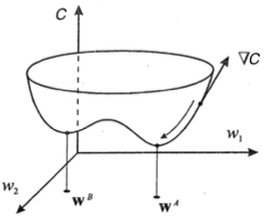
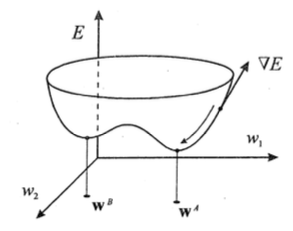
fix Error function

Changed region(s): [[0.0, 0.0276, 0.9925, 0.9954]]

diff --git a/chapters/2 State-of-the-art.tex b/chapters/2 State-of-the-art.tex
@@ -120,31 +120,37 @@ Lo scambio di dati tra i vari neuroni consente alla rete neurale di poter genera
 anche con dati mai visti nel training set. Questo processo prende il nome di 
 “\emph{Apprendimento}”. L’apprendimento di un modello di rete è tipicamente effettuato 
 a partire da un insieme di dati di addestramento chiamato training test. All’interno 
-di questi insiemi abbiamo la presenza di esempi formati da coppie $(x^q, y^q)$, con 
-$q=1,…,n$, dove $y^q$ sta a rappresentare il valore di output desiderato in funzione 
-del dato di input $x^q$. Per ricavare il valore target è necessario ricercare gli opportuni 
-valori dei pesi, indispensabili a minimizzare l’errore commesso. Quest’ultimo è 
-associato ad una la \emph{Funzione di Costo} (o di perdita) (\ref{cost function}):
-\begin{equation}\label{cost function}
-    \emph{C}=(a_k-y)^2
+di questi insiemi abbiamo la presenza di esempi formati da coppie $(x^j, y^j)$, con 
+$j=1,…,n$, dove $y^j$ sta a rappresentare il valore di output desiderato in funzione 
+del dato di input $x^j$. Per ricavare il valore target è necessario ricercare gli 
+opportuni valori dei pesi, indispensabili a minimizzare l’errore commesso. La 
+quantità dell’errore commesso, dal singolo neurone $j$, è esprimibile mediante (\ref{error function}):
+\begin{equation}\label{error function}
+    \emph{$e_j$}=\hat{y}_j-y_j
 \end{equation}
-Si può osservare che il calcolo di (\ref{cost function}) è riconducibile alla somma dei quadrati 
-residua tra il valore stimato e quello desiderato. La funzione di costo $C$ risulta 
-essere molto importate nella fase di apprendimento in quanto misura la distanza 
-dalla soluzione ottimale. In generale, la funzione di costo ha diversi minimi (Fig. \ref{minimum and maximum})
+Si può osservare che il calcolo di (\ref{error function}) è riconducibile alla somma dei quadrati 
+residua tra il valore stimato $\hat{y}_j$ e quello desiderato $y_j$. L’errore totale derivato da 
+tutta la rete è calcolabile prendendo in considerazione la \emph{Funzione di Errore}, a 
+volte chiamata anche di \emph{Costo}, esprimibile dal calcolo della seguente formula:
+\begin{equation}\label{error function}
+    \emph{$E$}=\frac{1}{2}\sum_{j=1}^me_j^2
+\end{equation}
+dove $m$ rappresenta il numero totale di neuroni presenti nell’output layer.
+La funzione di errore $E$ risulta essere molto importate nella fase di apprendimento in quanto misura la distanza 
+dalla soluzione ottimale. In generale, la funzione di errore ha diversi minimi (Fig. \ref{minimum and maximum})
 \begin{figure}[H]
     \centering
     \includegraphics[width = 0.7\linewidth]{cost-function.png}
     \centering
-    \caption{Esempio di minimo globale e locale della funzione di costo.}
+    \caption{Esempio di minimo globale ($w^A$) e locale ($w^B$).}
     \label{minimum and maximum}
 \end{figure}
 Per ottenere un valore della funzione relativamente basso, l’obiettivo è racchiuso 
 nella ricerca del minimo globale. Tale ricerca avviene in maniera iterativa, partendo 
 da dei pesi a valori casuali, fino a definirne dei valori fissi. La ricerca dei pesi 
-ottimali avviene mediante calcolo delle derivate parziali sulla funzione di costo, 
-ovvero del suo vettore gradiente $\nabla{C}$. Questo vettore è utile a definire la direzione 
-ed il verso della funzione di costo, in base al set di pesi considerato. Il calcolo delle 
+ottimali avviene mediante calcolo delle derivate parziali sulla funzione di errore, 
+ovvero del suo vettore gradiente $\nabla{E}$. Questo vettore è utile a definire la direzione 
+ed il verso della funzione di errore, in base al set di pesi considerato. Il calcolo delle 
 derivate viene svolto dall’algoritmo di \emph{Back Propagation} (discusso nella sezione X 
 di questo elaborato). Una rete neurale artificiale può avere vari tipi 
 di apprendimento: \emph{Supervisionato, Semi-Supervisionato, Non-Supervisionato} e 
